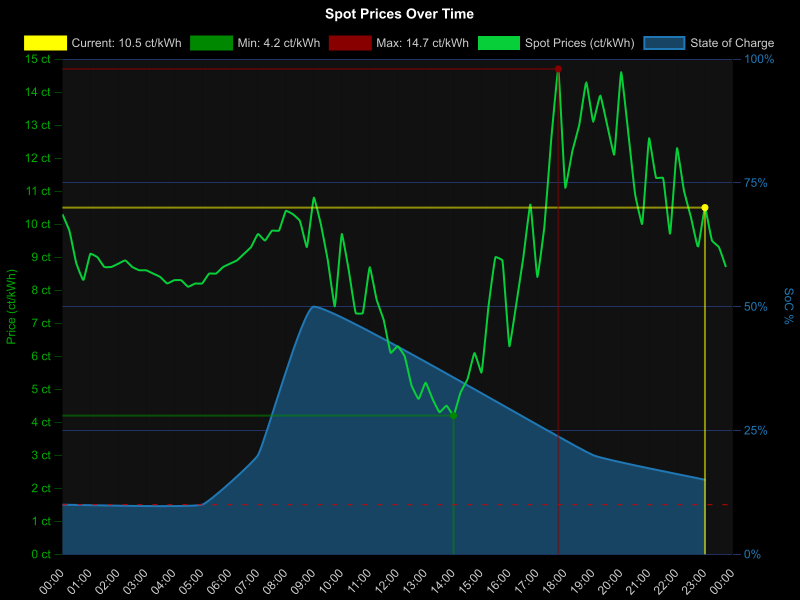
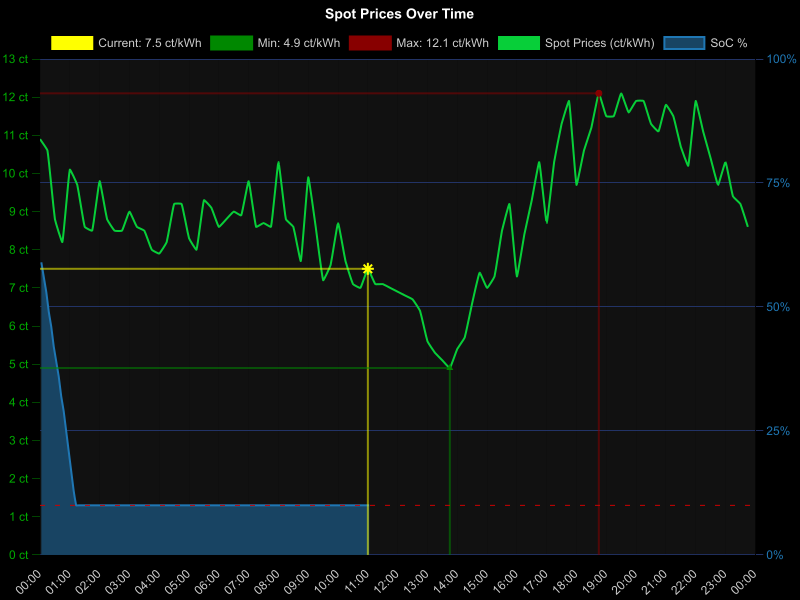
Added separate fetchStorageData to SE API

diff --git a/SpotPricesTest.js b/SpotPricesTest.js
@@ -1,19 +1,22 @@
 'use strict';
+const dotenv = require("dotenv");
+dotenv.config({path: '.env.local'});
+
 const SpotPrices = require("./SpotPrices.js");
 const spotPrices = new SpotPrices();
-const fs = require('fs');
 
-// ---------- Ensure a date‑fns adapter is available ----------
-const dateFns = require('date-fns');
-global.dateFns = dateFns;
-if (!dateFns.parseISO) {
-    // Fallback: simple ISO parser that works with the Chart.js adapter
-    dateFns.parseISO = (isoString) => new Date(isoString);
-}
+const SolaredgeAPI = require("./SolaredgeAPI.js");
+const solarEdgeApi = new SolaredgeAPI(process.env.SOLAREDGE_SITEID, process.env.SOLAREDGE_APIKEY, process.env.SOLAREDGE_INVERTERID);
+
+const fs = require('fs');
 
 // ---------- Load Chart.js before the adapter ----------
 const Chart = require('chart.js');
 global.Chart = Chart;
+
+// ---------- Ensure a date‑fns adapter is available ----------
+const dateFns = require('date-fns');
+global.dateFns = dateFns;
 
 // ---------- Load the date‑fns adapter ----------
 require('chartjs-adapter-date-fns');
@@ -46,6 +49,19 @@ const { posix } = require("path");
     console.log(`Current price ${spotPrices.currentPrice} ${spotPrices.unit} (since ${spotPrices.currentPriceDate.toLocaleString()})`);
     console.log(`Future minimum price ${spotPrices.minFuturePrice} at ${spotPrices.minFuturePriceDate}`);
 
+    const now = new Date();
+    // Create "today 00:00:00"
+    const startOfDay = new Date(now.getFullYear(), now.getMonth(), now.getDate(), 0, 0, 0);
+    // Create "tomorrow 00:00:00"
+    const endOfDay = new Date(now.getFullYear(), now.getMonth(), now.getDate()+1, 0, 0, 0);
+
+    const storageData = await solarEdgeApi.fetchStorageData(startOfDay, now);
+    console.log(`SolarEdge diagram data: ${storageData.length} items`);
+    const storageDataset = [];
+    storageData.forEach((val, index, array) => {
+        storageDataset.push({ x: val.timeStamp, y: val.socPercent });
+    });
+
     // --- Generate chart image using Chart.js -------------------------------
     const width = 800;   // px
     const height = 600;  // px
@@ -53,13 +69,6 @@ const { posix } = require("path");
 
     const spotPricesDataset = spotPrices.dates.map((d,i) => ({x: d, y:spotPrices.prices[i]}));
     
-    const now = new Date();
-
-    // Create "today 00:00:00"
-    const startOfDay = new Date(now.getFullYear(), now.getMonth(), now.getDate(), 0, 0, 0);
-    // Create "tomorrow 00:00:00"
-    const endOfDay = new Date(now.getFullYear(), now.getMonth(), now.getDate()+1, 0, 0, 0);
-
     const backgroundPlugin = {
         id: 'customCanvasBackgroundColor',
         beforeDraw: (chart) => {
@@ -73,15 +82,6 @@ const { posix } = require("path");
 
     const currentPriceDataset = [{x: spotPrices.currentPriceDate, y:spotPrices.currentPrice}];
 
-    // TODO: Use real SoC data
-    const soCDataset = [];
-    soCDataset.push({x: startOfDay, y: 10});
-    soCDataset.push({x: new Date("2025-10-11T05:00:00"), y: 10});
-    soCDataset.push({x: new Date("2025-10-11T07:00:00"), y: 20});
-    soCDataset.push({x: new Date("2025-10-11T09:00:00"), y: 50});
-    soCDataset.push({x: new Date("2025-10-11T19:00:00"), y: 20});
-    soCDataset.push({x: new Date(), y: 15});
-
     const configuration = {
         type: 'line',
         data: {
@@ -91,16 +91,16 @@ const { posix } = require("path");
                     data: currentPriceDataset,
                     backgroundColor: '#ff0',
                     borderColor: '#ff0',
-                    fill: false,
-                    tension: 0.1
+                    borderWidth: 2,
+                    pointRadius: 6,
+                    pointStyle: 'star',
                 },
                 {
                     label: `Min: ${spotPrices.minPrice} ${spotPrices.unit}`,
                     data: [{x: spotPrices.minPriceDate, y: spotPrices.minPrice}],
                     backgroundColor: '#080',
                     borderColor: '#080',
-                    fill: false,
-                    tension: 0.1
+                    pointStyle: 'triangle',
                 },
                 {
                     label: `Max: ${spotPrices.maxPrice} ${spotPrices.unit}`,
@@ -122,8 +122,8 @@ const { posix } = require("path");
                     tension: 0.1
                 },
                 {
-                    label: `State of Charge`,
-                    data: soCDataset,
+                    label: `SoC %`,
+                    data: storageDataset, //soCDataset,
                     borderColor: '#1f77b4',
                     backgroundColor: '#184463',
                     borderWidth: 2,
@@ -156,11 +156,6 @@ const { posix } = require("path");
                 },
                 y: {
                     position: 'left',
-                    title: {
-                        display: true,
-                        text: `Price (${spotPrices.unit})`,
-                        color: '#0A0',
-                    },
                     grid: {
                         drawTicks: true,
                         drawOnChartArea: false,
@@ -176,11 +171,6 @@ const { posix } = require("path");
                     min: 0,
                     max: 100,
                     position: 'right',
-                    title: {
-                        display: true,
-                        text: `SoC %`,
-                        color: '#1f77b4',
-                    },
                     grid: {
                         drawTicks: true,
                         drawOnChartArea: true,

diff --git a/SolaredgeAPI.js b/SolaredgeAPI.js
@@ -325,6 +325,52 @@ class SolaredgeAPI {
 			throw error;
 		}
 	}
+
+	/**
+	 * Fetch storage data
+	 * 
+	 * @param {Date} from Start storage
+	 * @param {Date} to End storage
+	 * 
+	 * @returns {[{
+	 * 				timeStamp: {Date},
+	 * 				socPercent: {Number},
+	 * 				temp: {Number},
+	 * 				power: {Number},
+	 * 				acGridCharging: {Number}
+	 * 			}]} 
+	 */
+	async fetchStorageData(from, to) {
+		const storageDataUrl = `https://monitoringapi.solaredge.com/site/${this.#siteId}/storageData`;
+
+		const storageData = [];
+
+		await axios
+		.get(storageDataUrl, {
+			params: {
+				format: "application/json",
+				api_key: this.#apiKey,
+				startTime: this.#formatDateTimeForAPI(from), // does not accept ISO Strings, must be formatted separately
+				endTime: this.#formatDateTimeForAPI(to)
+		}})
+		.then(res => {
+			res.data.storageData.batteries[0].telemetries.forEach((val, idx, arr) => {
+				storageData.push({
+					timeStamp: new Date(val.timeStamp),
+					socPercent: val.batteryPercentageState,
+					temp: val.internalTemp,
+					power: val.power, // positive: charging, negative: discharging
+					acGridCharging: val.ACGridCharging, // grid power used for charging in Wh
+				});
+			});
+		})
+		.catch(error => {
+			console.error("Could not get storage data:", error);
+			throw error;
+		});
+
+		return storageData;
+	}
 }
 
 module.exports = SolaredgeAPI;
